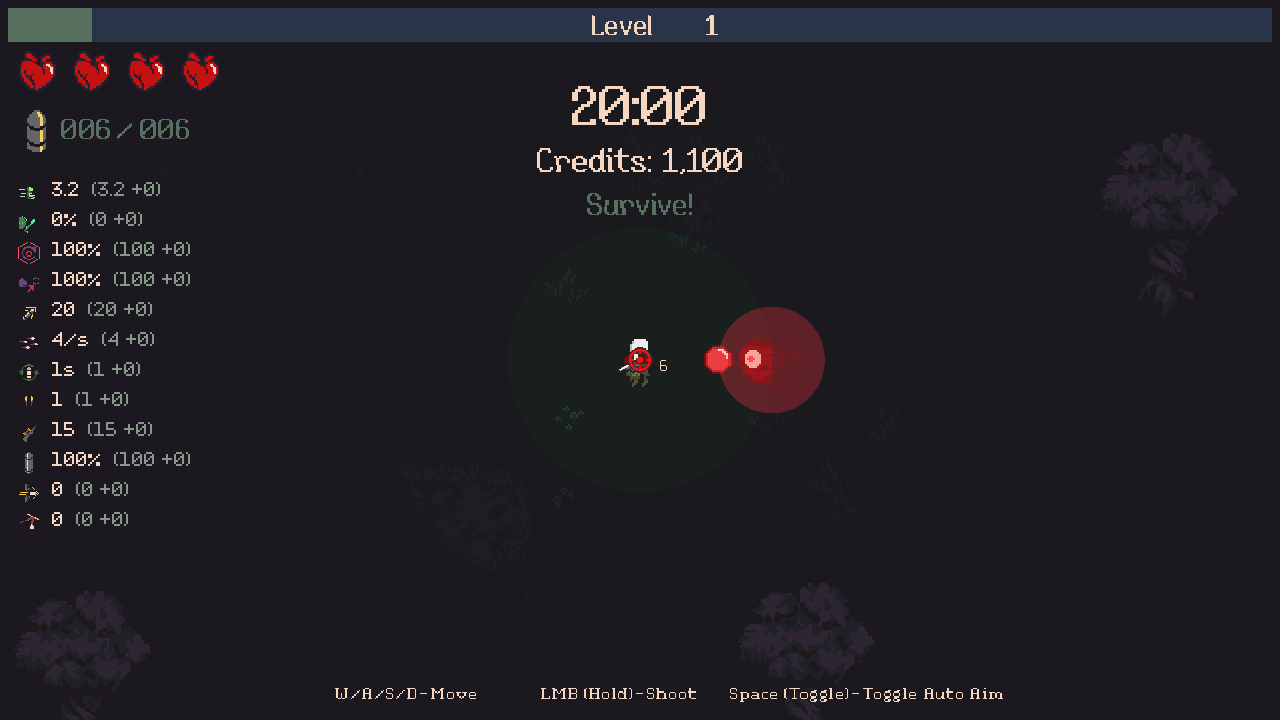
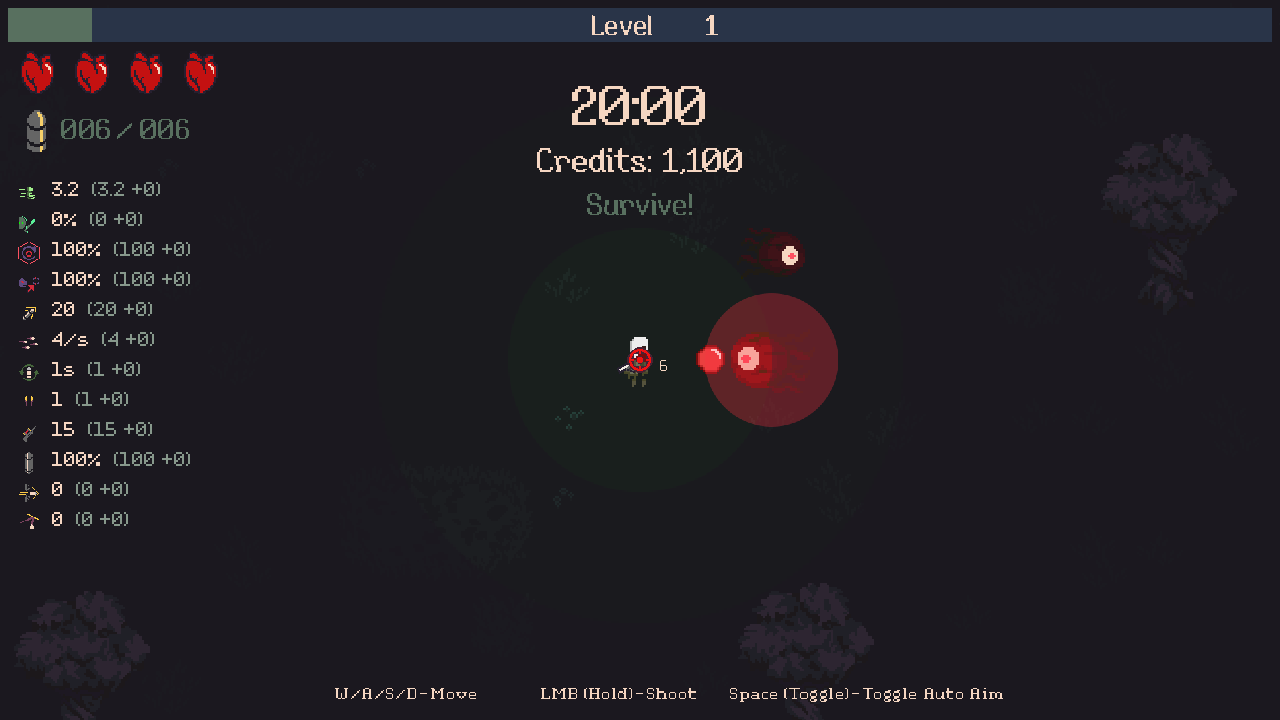
feat: make elite enemies 25 percent larger with exact pool restoration

Changed region(s): [[0.5312, 0.3056, 0.6562, 0.6111], [0.0312, 0.0917, 0.1875, 0.1222]]

diff --git a/validation/EliteChecks.cs b/validation/EliteChecks.cs
@@ -32,6 +32,8 @@ public partial class RuntimeChecks
  IEnumerator EliteCadence(GameController game)
  {
   Plugin.SetField(game.playerXP,"<level>k__BackingField",10);ClearEliteXP();
+  var reference=EliteSpawn("EyeMonster");Vector3 ordinaryScale=reference.transform.localScale,ordinaryArtScale=reference.GetComponent<SpriteRenderer>().transform.lossyScale;
+  Physics2D.SyncTransforms();Vector3 ordinaryCollider=reference.GetComponent<Collider2D>().bounds.size;int referenceId=reference.GetInstanceID();ReturnFixtureActor(reference.gameObject);
   for(int i=0;i<200;i++)
   {
    var ordinary=EliteSpawn();Require(!Enhanced(ordinary),"no promotion before the earned 200-kill boundary at "+i);ordinary.TakeDamage(DamageType.Bullet,100000);
@@ -41,23 +43,43 @@ public partial class RuntimeChecks
   }
   ClearEliteXP();var elite=EliteSpawn("EyeMonster");int baseHP=Mathf.FloorToInt(Object.FindObjectOfType<HordeSpawner>().healthMultiplier*24);
   Require(Enhanced(elite)&&elite.maxHP==baseHP*3&&elite.HP==baseHP*3&&EliteClaims==1,"first ordinary spawn after200 real kills gains triple actual health and consumes exactly one opportunity");
-  var normal=EliteSpawn();Require(!Enhanced(normal)&&normal.maxHP==baseHP,"one opportunity cannot promote a second regular spawn");ReturnFixtureActor(normal.gameObject);
+  Vector3 largerScale=new Vector3(ordinaryScale.x*1.25f,ordinaryScale.y*1.25f,ordinaryScale.z);
+  Require(elite.GetInstanceID()==referenceId&&elite.transform.localScale==largerScale,"elite uses 125 percent of its actual spawned XY scale and preserves Z");
+  Physics2D.SyncTransforms();var collider=elite.GetComponent<Collider2D>().bounds.size;
+  CombatClose(collider.x,ordinaryCollider.x*1.25f,"elite collider width grows proportionally with the artwork");CombatClose(collider.y,ordinaryCollider.y*1.25f,"elite collider height grows proportionally with the artwork");
+  var artScale=elite.GetComponent<SpriteRenderer>().transform.lossyScale;
+  CombatClose(artScale.x,ordinaryArtScale.x*1.25f,"elite rendered sprite width scale is 125 percent");CombatClose(artScale.y,ordinaryArtScale.y*1.25f,"elite rendered sprite height scale is 125 percent");
+  var normal=EliteSpawn("EyeMonster");Require(!Enhanced(normal)&&normal.maxHP==baseHP&&normal.transform.localScale==ordinaryScale,"one opportunity cannot promote or resize a second regular spawn");
+  normal.transform.position=PlayerController.Instance.transform.position+new Vector3(2,1.6f);normal.GetComponent<MoveComponent2D>().enabled=false;normal.GetComponent<AIComponent>().enabled=false;
   var ai=elite.GetComponent<AIComponent>();elite.transform.position=PlayerController.Instance.transform.position+Vector3.right*2;elite.GetComponent<MoveComponent2D>().enabled=false;ai.specialTimer=0;EliteShots[ai]=new List<float>();
   while(EliteShots[ai].Count<3)yield return null;
   float enhancedInterval=(EliteShots[ai][2]-EliteShots[ai][0])/2;Require(Mathf.Abs(enhancedInterval-ai.specialCooldown*2/3)<.12f,"actual enhanced Eye fires at two-thirds ordinary cooldown");
   foreach(bool style in new[]{false,true}){if(ColorfulStyle.Instance.Enabled!=style)ColorfulStyle.Instance.Toggle();yield return PoiCapture("elite-aura-"+(style?"reborn":"original")+".png");}
   var aura=elite.transform.Find("EliteAura").GetComponent<SpriteRenderer>();Require(aura.enabled&&aura.color.r>.9f&&aura.color.g<.3f,"elite has a visible red native-art aura in both artwork modes");
+  normal.GetComponent<AIComponent>().enabled=true;ReturnFixtureActor(normal.gameObject);
+  var move=elite.GetComponent<MoveComponent2D>();move.enabled=true;ai.specialTimer=0;
+  elite.transform.position=PlayerController.Instance.transform.position+Vector3.right*(Mathf.Sqrt(ai.specialRangeSqr)+2);Vector3 beforeMove=elite.transform.position;
+  while(elite.transform.position==beforeMove)yield return null;
+  Require(elite.transform.localScale==largerScale,"actual native Eye movement and repeated attacks preserve the elite size");move.enabled=false;
   ClearEliteXP();var recorder=Object.FindObjectOfType<GameController>().GetComponent(AccessTools.TypeByName("TwentyMinutes.Modernization.RunRecorder"));int minis=((HashSet<int>)WindField(recorder,"KilledElites")).Count;int bosses=((HashSet<int>)WindField(recorder,"KilledBosses")).Count;
   elite.TakeDamage(DamageType.Bullet,100000);Require(LiveXP().Length==3&&NativeKills==201,"enhanced death drops triple XP but counts as one kill");
+  Require(elite.transform.localScale==ordinaryScale,"death returns the exact original scale before pool reuse");
   Require(((HashSet<int>)WindField(recorder,"KilledElites")).Count==minis&&((HashSet<int>)WindField(recorder,"KilledBosses")).Count==bosses,"enhanced ordinary death does not count as a scheduled miniboss or boss");yield return EliteCollect(game,LiveXP(),3);
-  var reused=EliteSpawn("EyeMonster");Require(!Enhanced(reused)&&reused.maxHP==baseHP&&!reused.transform.Find("EliteAura").GetComponent<SpriteRenderer>().enabled,"pool reuse restores ordinary health and hides the old aura");
+  var reused=EliteSpawn("EyeMonster");Require(reused==elite&&!Enhanced(reused)&&reused.maxHP==baseHP&&!reused.transform.Find("EliteAura").GetComponent<SpriteRenderer>().enabled&&reused.transform.localScale==ordinaryScale,"pool reuse restores ordinary size/health and hides the old aura");
+  Physics2D.SyncTransforms();CombatClose(reused.GetComponent<Collider2D>().bounds.size.x,ordinaryCollider.x,"ordinary reuse restores the original collider width");
   ai=reused.GetComponent<AIComponent>();reused.transform.position=PlayerController.Instance.transform.position+Vector3.right*2;reused.GetComponent<MoveComponent2D>().enabled=false;ai.specialTimer=0;EliteShots[ai]=new List<float>();
   while(EliteShots[ai].Count<3)yield return null;
   float ordinaryInterval=(EliteShots[ai][2]-EliteShots[ai][0])/2;Require(Mathf.Abs(ordinaryInterval-ai.specialCooldown)<.12f&&Mathf.Abs(ordinaryInterval/enhancedInterval-1.5f)<.12f,"ordinary reused Eye restores its actual firing cadence without a retained elite modifier");ElementClear();
   Plugin.SetField(ScoreCalculator.SharedInstance,"_enemiesKilled",400);var source=Object.FindObjectOfType<AndroidEndlessRun>();
   var scheduled=EliteSpawn("ElderBrain",1000,true);Require(!Enhanced(scheduled)&&EliteClaims==1,"scheduled miniboss does not consume a pending regular-enemy opportunity");ReturnFixtureActor(scheduled.gameObject);
   int index=SelectedMap.MapData.bossSpawns.Count>0?0:-1;Require(index>=0,"scenario has its real scheduled boss for identity check");ElementCall(source,"SpawnScheduledBoss",index,false);var boss=Object.FindObjectsOfType<Health>().First(h=>h.GetComponent<AndroidHealthEvents>()!=null&&h.GetComponent<AndroidHealthEvents>().CreatureType==2);Require(!Enhanced(boss)&&EliteClaims==1,"real boss spawn retains identity and does not consume a regular opportunity");ReturnFixtureActor(boss.gameObject);
-  Log("fixture-precondition","Real first200 deaths/native kill count; later native score seeded400 solely to save a pending second opportunity. Source scheduler stopped; NPC shot positions/movement isolated; actual AI Use cadence and native XP grants measured.");
+  // The pool also permits signed/nonuniform prefab scales. Exercise the same
+  // actual promotion path a second time, then restore this controlled fixture.
+  var pose=new Vector3(-.8f,1.4f,2);elite.transform.localScale=pose;var repromoted=EliteSpawn("EyeMonster");
+  Require(repromoted==elite&&Enhanced(repromoted)&&repromoted.transform.localScale==new Vector3(-1,1.75f,2),"second promotion scales its current signed nonuniform pose once without compounding");
+  ReturnFixtureActor(repromoted.gameObject);Require(repromoted.transform.localScale==pose,"explicit pool return restores signed nonuniform XY and untouched Z");repromoted.transform.localScale=ordinaryScale;
+  Plugin.SetField(ScoreCalculator.SharedInstance,"_enemiesKilled",600);
+  Log("fixture-precondition","Real first200 deaths/native kill count; later native score seeded400 for a second promotion with a signed/nonuniform pose, then600 to save a pending third opportunity. Source scheduler stopped; NPC shot positions/movement isolated; actual AI Use cadence/movement and native XP grants measured.");
   yield return DragonSuspend(game,"Enhanced regular enemies: real200-kill cadence, exact health/XP, native Eye intervals, aura, boss separation, pool reuse and pending opportunity checkpoint");
  }
  IEnumerator CheckElites(string mode)
@@ -71,8 +93,8 @@ public partial class RuntimeChecks
   {
    Require(NativeKills==450&&EliteClaims==2&&!Enhanced(EliteSpawn()),"older checkpoint initializes at its next200-kill boundary without retrospective elite burst");ElementClear();Plugin.SetField(ScoreCalculator.SharedInstance,"_enemiesKilled",600);Require(Enhanced(EliteSpawn())&&EliteClaims==3,"legacy cadence keeps its next eligible boundary");ElementClear();yield return AchievementExit(game,false);SetPhase("PASS");Log("complete","Derived released checkpoint with450 kills and absent elite member retains forward cadence");Application.Quit(0);yield break;
   }
-  Require(NativeKills==400&&EliteClaims==1,"fresh-process Continue preserves pending second opportunity exactly");
-  var next=EliteSpawn();Require(Enhanced(next)&&EliteClaims==2,"resumed pending opportunity promotes the next ordinary actor once");var normal=EliteSpawn();Require(!Enhanced(normal),"restored opportunity cannot be claimed twice");ElementClear();
+  Require(NativeKills==600&&EliteClaims==2,"fresh-process Continue preserves pending third opportunity exactly");
+  var next=EliteSpawn();Require(Enhanced(next)&&EliteClaims==3,"resumed pending opportunity promotes the next ordinary actor once");var normal=EliteSpawn();Require(!Enhanced(normal),"restored opportunity cannot be claimed twice");ElementClear();
   yield return AchievementExit(game,false);yield return AchievementRun("Shana","RevolverData","20M_Forest",prepareRun:()=>Loadout.RuneSelection=new List<flanne.RuneSystem.RuneData>());game=Object.FindObjectOfType<GameController>();StopFixtureSpawning();Require(NativeKills==0&&EliteClaims==0&&!Enhanced(EliteSpawn()),"fresh run resets kills/cadence and spawns ordinary enemies");ElementClear();yield return AchievementExit(game,false);SetPhase("PASS");Log("complete","Enhanced enemies exact pending Continue, one-time claim and fresh-run reset");Application.Quit(0);
  }
  IEnumerator EliteMaps()
@@ -81,10 +103,11 @@ public partial class RuntimeChecks
   {
    RunResume.Invalidate();Progression.State.earned.Add("scenario:"+map);Progression.Refresh();yield return AchievementRun("Shana","RevolverData",map,prepareRun:()=>Loadout.RuneSelection=new List<flanne.RuneSystem.RuneData>());
    var game=Object.FindObjectOfType<GameController>();StopFixtureSpawning();var source=Object.FindObjectOfType<AndroidEndlessRun>();WorldClearSchedule(source);var session=WorldSession(source,0);string tag=((string[])WindField(WorldWaves(source)[0],"Pools"))[0];
-   var baseline=EliteSpawn(tag,session.HP);int normalMaximum=baseline.maxHP;ReturnFixtureActor(baseline.gameObject);Plugin.SetField(ScoreCalculator.SharedInstance,"_enemiesKilled",200);
+   var baseline=EliteSpawn(tag,session.HP);int normalMaximum=baseline.maxHP;Vector3 normalScale=baseline.transform.localScale;ReturnFixtureActor(baseline.gameObject);Plugin.SetField(ScoreCalculator.SharedInstance,"_enemiesKilled",200);
    WorldQueue(source).Enqueue(0);source.enabled=true;EnhancedEnemy enhanced;
    while((enhanced=Object.FindObjectsOfType<EnhancedEnemy>().FirstOrDefault(e=>(bool)WindField(e,"Enhanced")))==null)yield return null;source.enabled=false;
-   Require(enhanced.GetComponent<Health>().maxHP==normalMaximum*3&&EliteClaims==1,"real source Update queue promotes an ordinary wave with final health scaling in "+map);enhanced.transform.position=PlayerController.Instance.transform.position+Vector3.right*2;yield return PoiCapture("elite-map-"+map+".png");
+   Require(enhanced.GetComponent<Health>().maxHP==normalMaximum*3&&EliteClaims==1,"real source Update queue promotes an ordinary wave with final health scaling in "+map);
+   Require(enhanced.transform.localScale==new Vector3(normalScale.x*1.25f,normalScale.y*1.25f,normalScale.z),"source wave keeps the 125 percent elite size in "+map);enhanced.transform.position=PlayerController.Instance.transform.position+Vector3.right*2;yield return PoiCapture("elite-map-"+map+".png");
    enhanced.GetComponent<Health>().TakeDamage(DamageType.Bullet,1000000);if(ChallengeRun.Instance!=null)Require(ChallengeRun.Instance.EnemyKills==1&&ChallengeRun.Instance.BossKills==0,"Challenge counts promoted ordinary enemy against enemy quota, not boss quota");
    ElementClear();yield return AchievementExit(game,false);
   }

diff --git a/release/build.py b/release/build.py
@@ -29,7 +29,7 @@ env.update(TEMP=str(args.scratch), TMP=str(args.scratch), MODERNIZATION_SCRATCH=
            DOTNET_CLI_HOME=str(args.scratch / 'dotnet'), DOTNET_GENERATE_ASPNET_CERTIFICATE='false')
 subprocess.run(['dotnet', 'build', str(ROOT / 'src/Modernization.csproj'), '-c', 'Release', '--no-restore',
                 '--nologo', '-v:minimal', '-nodeReuse:false', '-m:1', '-p:UseSharedCompilation=false'], cwd=ROOT, env=env, check=True)
-stage = args.output / '20-Minutes-Till-Dawn-Revamped-1.2.0'
+stage = args.output / '20-Minutes-Till-Dawn-Revamped-1.2.1'
 (stage / 'Mod').mkdir(parents=True)
 plugin = args.scratch / 'bin/Modernization/netstandard2.0/TwentyMinutes.Modernization.dll'
 shutil.copy2(plugin, stage / 'Mod' / plugin.name)
@@ -46,7 +46,7 @@ for name in ('README.md', 'LICENSE', 'INSTALL.md'):
 contract = asset_contract(args.prepared_assets)
 if len(contract) != 593:
     raise SystemExit('Prepared asset contract must contain the complete 593-file local runtime set, including affixes, achievement icons/catalog, source display/camera data and both gameplay sounds with provenance')
-release = {'product': '20 Minutes Till Dawn - Revamped', 'version': '1.2.0', 'source_commit': revision,
+release = {'product': '20 Minutes Till Dawn - Revamped', 'version': '1.2.1', 'source_commit': revision,
            'candidate': args.candidate, 'plugin_sha256': digest(plugin), 'assets': contract,
            'asset_delivery': 'Prepared locally from pinned owned inputs; no extracted game art/data in this archive'}
 (stage / 'RELEASE.json').write_text(json.dumps(release, indent=2) + '\n', encoding='utf8', newline='\n')
@@ -62,10 +62,10 @@ plugin_path = 'BepInEx/plugins/20MTDModernization/TwentyMinutes.Modernization.dl
 installed[plugin_path] = digest(plugin)
 if len(installed) != 614:
     raise SystemExit('Updater contract requires the complete 614-file owned payload')
-(stage / 'UPDATE.json').write_text(json.dumps({'schema': 1, 'product': '20MTD-Revamped', 'version': '1.2.0',
+(stage / 'UPDATE.json').write_text(json.dumps({'schema': 1, 'product': '20MTD-Revamped', 'version': '1.2.1',
     'source_commit': revision, 'files': installed, 'payload': {plugin_path: 'Mod/' + plugin.name}}, indent=2) + '\n', encoding='utf8', newline='\n')
 files = {p.relative_to(stage).as_posix(): digest(p) for p in sorted(stage.rglob('*')) if p.is_file()}
-(stage / 'PACKAGE.json').write_text(json.dumps({'version': '1.2.0', 'source_commit': revision, 'files': files}, indent=2), encoding='utf8', newline='\n')
+(stage / 'PACKAGE.json').write_text(json.dumps({'version': '1.2.1', 'source_commit': revision, 'files': files}, indent=2), encoding='utf8', newline='\n')
 archive = args.output / (stage.name + '.zip')
 with zipfile.ZipFile(archive, 'w', compression=zipfile.ZIP_DEFLATED, compresslevel=9) as package:
     for path in sorted(stage.rglob('*')):

diff --git a/src/EnhancedEnemies.cs b/src/EnhancedEnemies.cs
@@ -19,11 +19,12 @@ public sealed class EliteRun:MonoBehaviour
 }
 public sealed class EnhancedEnemy:MonoBehaviour
 {
- internal bool Enhanced,FasterEye;internal int XpCopies=1;int originalMaximum;Health health;SpriteRenderer aura;
+ internal bool Enhanced,FasterEye;internal int XpCopies=1;int originalMaximum;Vector3 originalScale;Health health;SpriteRenderer aura;
  void Awake(){health=GetComponent<Health>();}
  void OnEnable(){Enhanced=false;XpCopies=1;}
  internal void Promote()
  {
+  originalScale=transform.localScale;transform.localScale=new Vector3(originalScale.x*1.25f,originalScale.y*1.25f,originalScale.z);
   originalMaximum=health.maxHP;health.maxHP=originalMaximum*3;Enhanced=true;XpCopies=3;
   FasterEye=GetComponent<AIComponent>().specialSO!=null&&GetComponent<AIComponent>().specialSO.name=="EyeMonsterShoot";
   if(aura==null){aura=ElementalRun.Instance.Status(transform);aura.name="EliteAura";aura.transform.localScale*=1.5f;}
@@ -35,6 +36,7 @@ public sealed class EnhancedEnemy:MonoBehaviour
   if(!Enhanced)return;
   // Clear the owned spawn multiplier before any other pool consumer reuses
   // this actor. Do not emit health callbacks from an inactive pool member.
+  transform.localScale=originalScale;
   Plugin.SetField(health,"_maxHP",originalMaximum);AndroidHealthEvents.HP(health)=Mathf.Min(health.HP,originalMaximum);Enhanced=false;FasterEye=false;
   // Source Death returns the actor before dispatching its serialized drops.
   // Retain XP copies for that dispatch; the next OnEnable resets them to one.

diff --git a/installer/install.py b/installer/install.py
@@ -13,7 +13,7 @@ import zipfile
 
 HERE = pathlib.Path(__file__).resolve().parent
 ROOT = HERE.parent
-VERSION = '1.2.0'
+VERSION = '1.2.1'
[1 lines of base64/hex data omitted]
 MOD = pathlib.PurePosixPath('BepInEx/plugins/20MTDModernization')
 
@@ -88,7 +88,7 @@ def download(pin, work, name):
     path.parent.mkdir(exist_ok=True)
     if not path.exists():
         writing = path.with_name(path.name + '.writing')
-        with urllib.request.urlopen(urllib.request.Request(pin['url'], headers={'User-Agent': '20MTD-Revamped/1.2.0'})) as response, writing.open('wb') as output:
+        with urllib.request.urlopen(urllib.request.Request(pin['url'], headers={'User-Agent': '20MTD-Revamped/1.2.1'})) as response, writing.open('wb') as output:
             shutil.copyfileobj(response, output)
         if digest(writing) != pin['sha256']:
             raise ValueError('Downloaded dependency digest mismatch: ' + name)

diff --git a/src/Plugin.cs b/src/Plugin.cs
@@ -16,7 +16,7 @@ using flanne.PerkSystem;
 using Object=UnityEngine.Object;
 
 namespace TwentyMinutes.Modernization;
-[BepInPlugin(Id,"20MTD Modernization","1.2.0")]
+[BepInPlugin(Id,"20MTD Modernization","1.2.1")]
 public class Plugin:BaseUnityPlugin
 {
     public const string Id="local.20mtd.modernization";

diff --git a/README.md b/README.md
@@ -4,7 +4,7 @@ Android 8.6 gameplay brought to the Windows game, with a transparent stats HUD, 
 
 A community mod for **20 Minutes Till Dawn by Flanne**, maintained by **Darkaxt**.
 
-[Download v1.2.0](https://github.com/Darkaxt/20-Minutes-Till-Dawn-Revamped/releases/tag/v1.2.0) · [Android updater](https://github.com/Darkaxt/20-Minutes-Till-Dawn-Revamped/releases/tag/updater-v0.1.0) · [Installation](INSTALL.md) · [Changelog](#changelog) · [Gameplay ledger](docs/PARITY.md)
+[Download v1.2.1](https://github.com/Darkaxt/20-Minutes-Till-Dawn-Revamped/releases/tag/v1.2.1) · [Android updater](https://github.com/Darkaxt/20-Minutes-Till-Dawn-Revamped/releases/tag/updater-v0.1.0) · [Installation](INSTALL.md) · [Changelog](#changelog) · [Gameplay ledger](docs/PARITY.md)
 
 ![Native title screen with Flanne's original credit and MAINTAINED BY DARKAXT pixel lettering](docs/images/title-maintained.png)
 
@@ -34,9 +34,9 @@ Lightning gains a small stunning splash and Mastery chains scaled by Pierce + Bo
 
 ### Face enhanced regular enemies
 
-Enhanced regular enemies add another challenge: every **200 kills** earns one elite opportunity, with **3× health and XP**, a **red aura**, and **50% faster firing** for elite Eyes. Scheduled minibosses/bosses remain distinct, and the cadence survives Continue. [Full rules](docs/ELEMENTS.md#enhanced-regular-enemies).
+Enhanced regular enemies add another challenge: every **200 kills** earns one elite opportunity, with **3× health and XP**, a **red aura**, **25% larger size**, and **50% faster firing** for elite Eyes. Scheduled minibosses/bosses remain distinct, and the cadence survives Continue. [Full rules](docs/ELEMENTS.md#enhanced-regular-enemies).
 
-![Elite Eye with its red aura in the Windows game](docs/images/elite-aura.png)
+![Larger elite Eye with a red aura beside an ordinary Eye in the Windows game](docs/images/elite-aura.png)
 
 *Controlled Windows test after 200 actual enemy deaths. Native XP collection, firing intervals, both artwork modes, saved cadence and normal reuse are verified.*
 
@@ -142,7 +142,7 @@ Use the game's own menus to adjust the run, weapon, attributes, enemies, summons
 
 You need your own **Windows Steam build 12679152** (Unity 2019.4.40f1 Mono x64) and the supported **Android 8.6 / 1093 APKM**. Python 3.14 x64 and .NET 10 are the tested preparation prerequisites.
 
-1. Download and extract the [v1.2.0 release ZIP](https://github.com/Darkaxt/20-Minutes-Till-Dawn-Revamped/releases/tag/v1.2.0).
+1. Download and extract the [v1.2.1 release ZIP](https://github.com/Darkaxt/20-Minutes-Till-Dawn-Revamped/releases/tag/v1.2.1).
 2. Close the game and follow [INSTALL.md](INSTALL.md), including its upgrade instructions if Revamped is already installed.
 3. Launch the game normally through Steam.
 
@@ -174,6 +174,10 @@ Install **Revamped Updater**, connect DroidDeck once through Android Files, then
 The HUD groups acquired icons by native upgrade path, with a subtle glow for tripled skills and no tier/count text. Native auto-targeting remains available; no separate autofire toggle was added. Continue reconstructs the supported build and runtime state; it is not a frozen snapshot of every live enemy, projectile or RNG state.
 
 ## Changelog
+
+### v1.2.1 — Larger elite enemies
+
+**Added:** elite regular enemies are 25% larger in width and height, including their collision bounds. Pool return restores the exact original size, without growth accumulating on reuse. The red aura, 3× health/XP and faster Eye firing remain. Only wind knockback scales with damage/maxHP; the other control durations remain fixed. [Release notes](release/NOTES-1.2.1.md) · [Exact rules](docs/ELEMENTS.md).
 
 ### v1.2.0 — Elemental roles and elite enemies
 
@@ -252,6 +256,8 @@ Verified with actual controller and mouse input in the isolated Windows player a
 [Full anomaly history](docs/ANOMALIES.md) · [Correction-by-correction evidence](docs/BUGFIXES.md) · [Release and verification history](docs/PROGRESS.md).
 
 ## Verification and limits
+
+The **1.2.1** elite-size source workflow is verified. Exact-package and public-download acceptance is tracked in [PROGRESS.md](docs/PROGRESS.md).
 
 The published **1.2.0** package passes the complete elemental/elite native workflows, both visual styles, current/prior Continue, all modes/Custom, controller menus and exploration regression. Exact packaged runtime, copied installation/rollback and independent public-download verification are recorded in [PROGRESS.md](docs/PROGRESS.md). The previous published **1.1.11** package passes POI visibility, all eight nearby reward colors and fresh-process Continue vision with acquired vision bonuses. Exact packaged native workflows, copied installation/rollback and independent public-download verification are recorded in [PROGRESS.md](docs/PROGRESS.md). The previous published **1.1.10** package passes the native directional-effects audit in both artwork modes, actual phoenix/Fire Starter/Shotgun behavior and Yuki animation/restart. Copied installation/rollback and independent public-download verification are recorded in [PROGRESS.md](docs/PROGRESS.md). The previous published **1.1.9** package passes native results navigation, Retry/death/Quit, complete retained menus, Mixed relations, varied exploration placement, scaled XP/credits, current/older Continue and native payout. Copied installation/rollback and the independently downloaded public package are verified in [PROGRESS.md](docs/PROGRESS.md). The unchanged gameplay integration retains its recorded acquisition, fire/reload, contact, lifecycle, restart, legacy and Custom checks. The Android updater previously completed a real1.1.2→1.1.3 update; current compatible releases remain user-deployed. [Controller verification](docs/CONTROLLER-UI.md).
 

diff --git a/docs/ELEMENTS.md b/docs/ELEMENTS.md
@@ -36,6 +36,8 @@ These are user-requested Revamped balance changes, superseding the corresponding
 
 Champion control durations are 20% of ordinary durations; displacement is 25%. Boss ignition applies a brief 10% slow instead of retreat. Native freeze and electrical stun stop movement before fear or wind displacement. Slow modifies displacement without repeatedly reducing stored velocity.
 
+Damage relative to maximum enemy health scales **wind pulse displacement only**. Electrical stun, fire retreat/slow and wind disorientation use the fixed durations above; they do not grow with damage or the victim's missing health.
+
 Lightning uses native strike artwork, blue impact/status cues and connecting arcs. Fire uses native burn artwork, an orange status cue and an impact blast. Wind retains Gale artwork with mint pulse and disorientation cues. Both artwork modes use the same geometry and rules. Effects use combat time and stop during native pause.
 
 Acquisitions rebuild the new owners on Continue, including supported older checkpoints. Enemy-local control, projectiles and temporary Energized counts do not become permanent saved bonuses. Pool return clears elemental status; a new run clears the previous run's owners.
@@ -44,10 +46,10 @@ Verification status is recorded in [PROGRESS.md](PROGRESS.md). Controlled fixtur
 
 ## Enhanced regular enemies
 
-Every 200 kills in the native run counter earns one elite opportunity. The next eligible regular wave enemy receives **3× its final spawned maximum/current health** and **3× its normal XP drops**, with a visible red aura. Elite Eyes fire **50% more frequently**: their normal special cooldown is multiplied by 2/3. Other movement, contact damage and non-XP drops remain unchanged.
+Every 200 kills in the native run counter earns one elite opportunity. The next eligible regular wave enemy receives **3× its final spawned maximum/current health** and **3× its normal XP drops**, with a visible red aura and **25% larger width and height**. The sprite and collision bounds scale together from that actor's original size, preserving its proportions. Elite Eyes fire **50% more frequently**: their normal special cooldown is multiplied by 2/3. Other movement, contact damage and non-XP drops remain unchanged.
 
 This promotion is separate from the game's scheduled minibosses and bosses. Those encounters do not consume the opportunity; a promoted regular enemy still counts as one normal enemy, including in Challenge quotas. Health scaling from difficulty, modes and Custom settings is applied before the promotion.
 
 The existing run checkpoint stores how many opportunities have been claimed. A pending opportunity survives Continue, and a new run starts at zero. Older checkpoints without the new member begin at their next 200-kill boundary, retaining their partial progress without retroactively spawning elites for all previous kills. Ordinary enemy world instances follow the game's existing Continue behavior; this addition preserves the cadence rather than introducing a separate enemy-world save system.
 
-Pool reuse removes the health multiplier, red aura and faster Eye firing. The source returns an enemy before dispatching its drops, so its XP multiplier remains available for that death dispatch and resets on its next activation.
+Pool return restores the exact pre-promotion size and removes the health multiplier, red aura and faster Eye firing. Repeated promotion does not compound scale. The source returns an enemy before dispatching its drops, so its XP multiplier remains available for that death dispatch and resets on its next activation.

diff --git a/release/NOTES-1.2.1.md b/release/NOTES-1.2.1.md
@@ -1,0 +1,11 @@
+# 1.2.1 — Larger elite enemies
+
+Elite regular enemies now have **25% larger width and height**, making them easier to distinguish alongside their red aura. Their sprite and collision bounds scale together from the original spawned size. Death and pool return restore that exact size; repeated promotion does not compound growth.
+
+The existing 200-kill cadence, 3× health/XP and 50% faster elite Eye firing remain. Scheduled minibosses and bosses retain their own size and encounter rules.
+
+For clarity, damage divided by maximum enemy health scales **wind pulse knockback only**. Electrical stun remains two seconds, fresh fire retreat/slow uses its existing durations, and wind disorientation remains 1.5 seconds, with existing boss resistance. This update does not change those balance rules.
+
+Verification covers native rendered size in both artwork modes, proportional collision bounds, actual Eye movement/attacks, death, ordinary reuse, signed/nonuniform repeated promotion, current/older Continue and source modes/Custom. Exact-package installation/rollback and independent public-download verification are recorded in [PROGRESS.md](../docs/PROGRESS.md).
+
+Install through the existing updater APK or Windows installer. No updater APK change is required. Live game installation remains user-controlled.

diff --git a/docs/PROGRESS.md b/docs/PROGRESS.md
@@ -1,5 +1,14 @@
 # Current Android gameplay completion
 
+## Larger elite regular enemies — 2026-10-28
+
+| Stage | Status | Acceptance |
+|---|---|---|
+| O1 Complete elite-size workflow | COMPLETE | O01–O03 pass native3/4/5/6: both-style size/collider renders, actual movement, exact pool/death/second-promotion restoration, byte-bound current/prior Continue and all six modes/Custom. O1-acceptance.json pins current source. No blocker or deferral. |
+| O2 Final public delivery | ACTIVE | O1 is COMPLETE. Verify committed v1.2.1 package, copied install/rollback, independent public download, synchronized documentation and reviewed cleanup. |
+
+The current public version is v1.2.0. Only wind displacement scales with actual damage/maxHP; the other elemental control durations remain as documented in [ELEMENTS.md](ELEMENTS.md). The requested size change does not alter those durations. Authoritative requirements O01–O03 are in SPEC.md.
+
 ## Elemental roles and enhanced regular enemies — 2026-10-28
 
 | Stage | Status | Satisfied / remaining |

diff --git a/INSTALL.md b/INSTALL.md
@@ -1,4 +1,4 @@
-# Install 1.2.0
+# Install 1.2.1
 
[1 lines of base64/hex data omitted]
 
